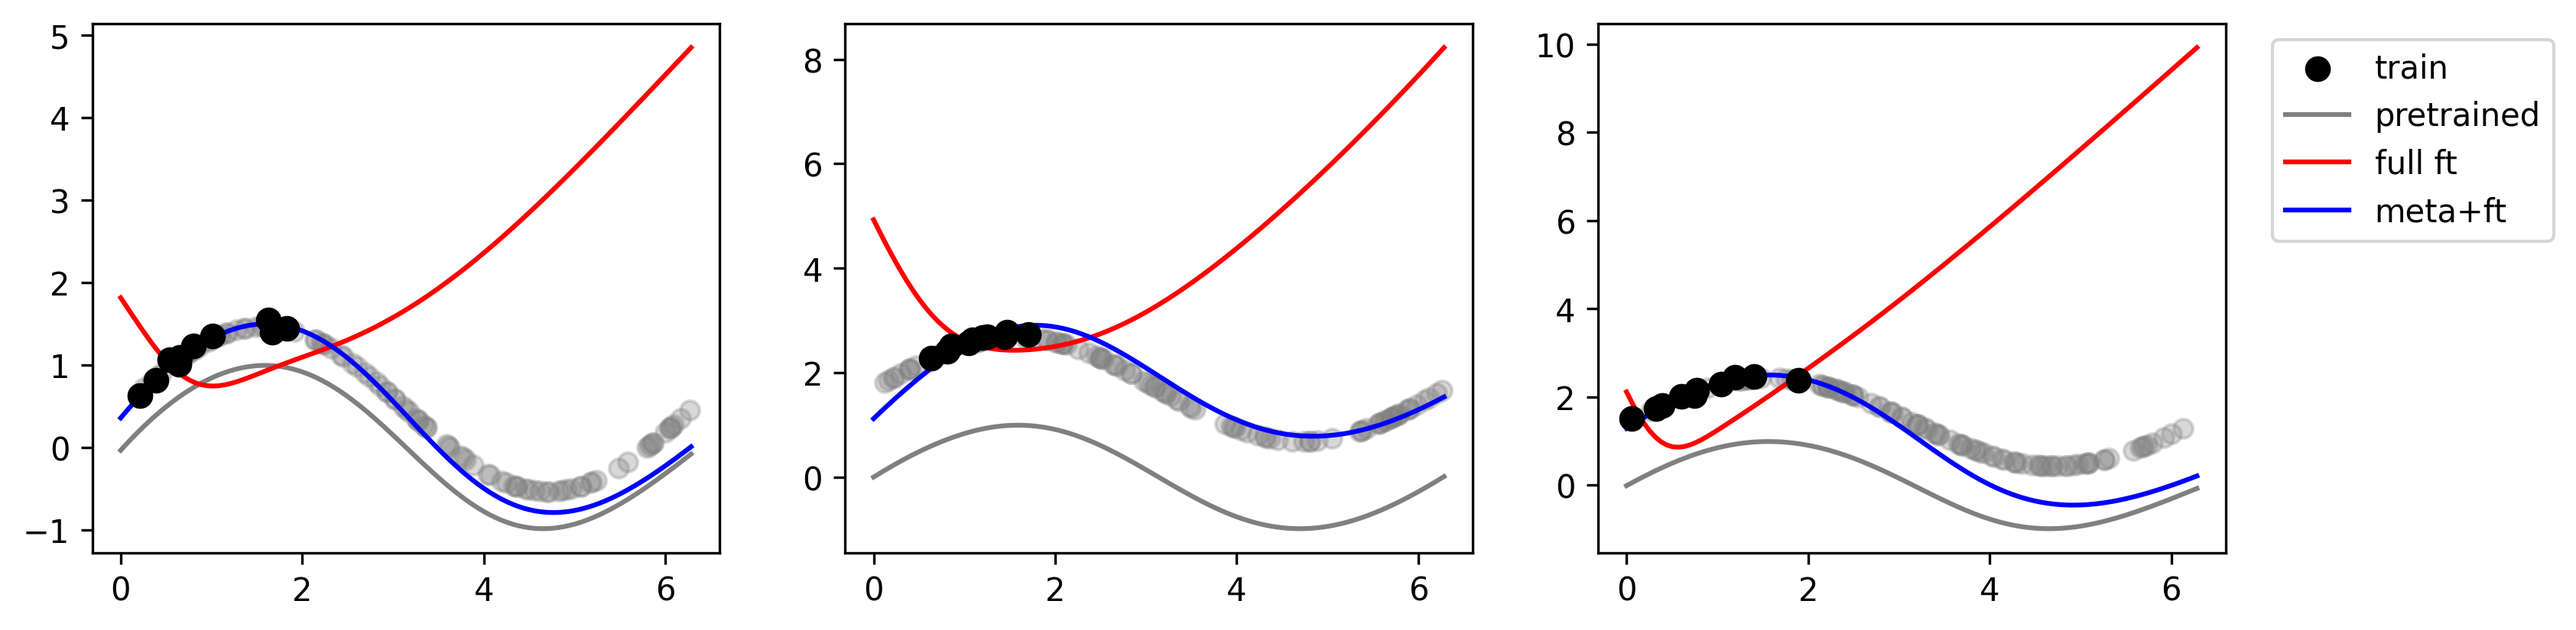
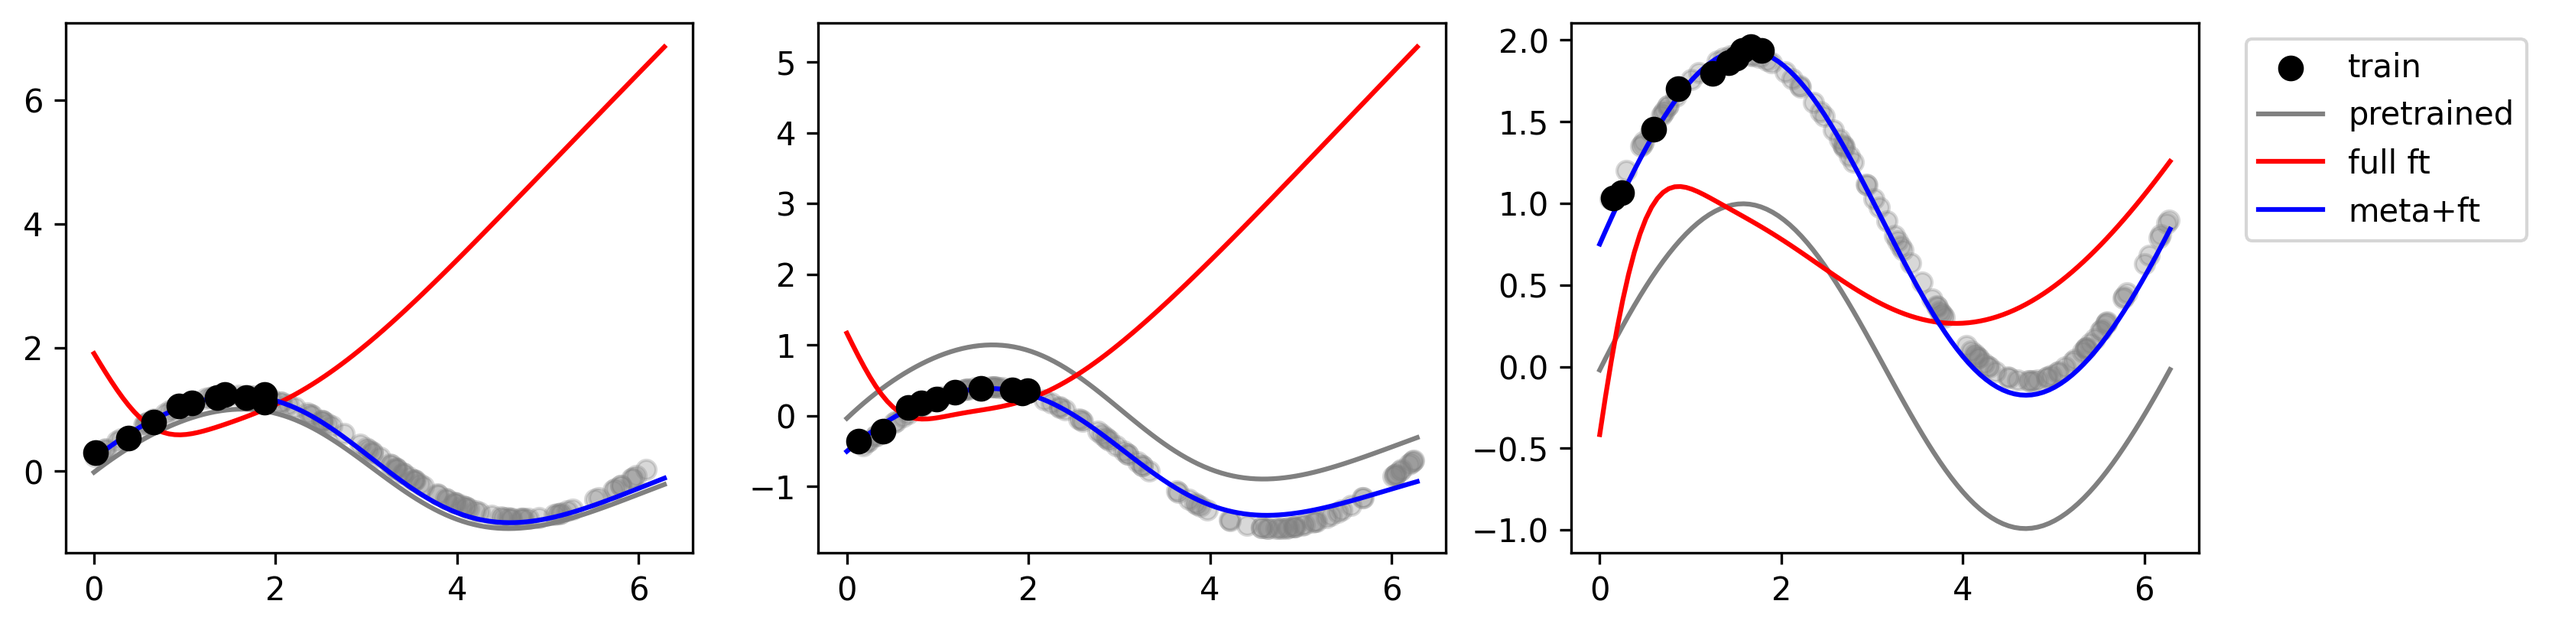
reparameterize metaopt to linear

diff --git a/main.py b/main.py
@@ -57,12 +57,16 @@ for seed in range(100):
         print(f"Saved pretrained net to {filename}!")
 
 class LayerSGD(Optimizer):
-    """meta-params: pre-sigmoid lr_multiplier per layer"""
+    """ meta-params: pre-sigmoid lr_multiplier per parameter. """
 
     def __init__(self, meta_params, params, lr=required):
         defaults = dict(lr=lr)
         super().__init__(params, defaults)
         self.meta_params = meta_params
+
+    @staticmethod
+    def get_init_meta_params():
+        return torch.zeros(4)
 
     def __setstate__(self, state: Dict[str, Any]) -> None:
         return super().__setstate__(state)
@@ -83,6 +87,41 @@ class LayerSGD(Optimizer):
                 p.data.add_(d_p, alpha=-local_lr)
         return loss
 
+class LayerSGDLinear(Optimizer):
+    """ meta-params: weights of linear layer with depth as input. """
+    def __init__(self, meta_params, net, lr=required):
+        defaults = dict(lr=lr)
+        param_groups = []
+        layers = list([p for p in net.children() if isinstance(p, nn.Linear)])  # Assumes nn.Sequential model
+        for depth, layer in enumerate(layers):
+            param_groups.append({"params": layer.weight, "depth": depth, "type": "w"})
+            param_groups.append({"params": layer.bias, "depth": depth, "type": "b"})
+        super().__init__(param_groups, defaults)
+        self.meta_params = {"w": meta_params[0:2], "b": meta_params[2:4]}
+
+    @staticmethod
+    def get_init_meta_params():
+        return torch.zeros(4)
+
+    def __setstate__(self, state: Dict[str, Any]) -> None:
+        return super().__setstate__(state)
+
+    def step(self, closure=None):
+        loss = None
+        if closure is not None:
+            loss = closure()
+
+        for group in self.param_groups:
+            p = group["params"][0]
+            if p.grad is None:
+                continue
+
+            depth = group["depth"]
+            meta_params = self.meta_params[group["type"]]
+            lr_multiplier = torch.sigmoid(meta_params[0] * depth + meta_params[1])
+            p.data.add_(p.grad.data, alpha=-group["lr"] * lr_multiplier)
+        return loss
+
 
 def get_pretrained_net(train):
     """Return a randomly sampled pretrained net."""
@@ -100,11 +139,14 @@ def get_pretrained_net(train):
     return net
 
 
-def fine_tune(net, meta_params, ft_data, inner_steps=10, inner_lr=1e-1):
+def fine_tune(optimizer_name, net, meta_params, ft_data, inner_steps=10, inner_lr=1e-1):
     """Fine-tune net on ft_data, and return net and test loss."""
     net = copy.deepcopy(net)
     train_x, train_y, test_x, test_y = ft_data
-    inner_opt = LayerSGD(meta_params, net.parameters(), lr=inner_lr)
+    if optimizer_name == "LayerSGD":
+        inner_opt = LayerSGD(meta_params, net.parameters(), lr=inner_lr)
+    elif optimizer_name == "LayerSGDLinear":
+        inner_opt = LayerSGDLinear(meta_params, net, lr=inner_lr)
     loss_fn = nn.MSELoss()
     test_losses = []
     for _ in range(inner_steps):
@@ -151,12 +193,12 @@ def sample_ft_data(task_distribution, train_N=10):
 
 def sanity_check(task_distribution):
     """Sanity check with full vs surgical fine-tuning on only last layer."""
-    meta_params = torch.ones(4).float() * -100
+    meta_params = torch.ones(4).float() * 100
     losses = []
     for _ in range(100):
         net = get_pretrained_net(train=False)
         ft_data = sample_ft_data(task_distribution)
-        _, loss = fine_tune(net, meta_params, ft_data, inner_steps=10, inner_lr=0.1)
+        _, loss = fine_tune("LayerSGD", net, meta_params, ft_data, inner_steps=10, inner_lr=0.1)
         losses.append(loss)
     losses = np.array(losses)
     print(f"Default: {losses.mean():.4f} +- {losses.std():.4f}")
@@ -166,14 +208,17 @@ def sanity_check(task_distribution):
     for _ in range(100):
         net = get_pretrained_net(train=False)
         ft_data = sample_ft_data(task_distribution)
-        _, loss = fine_tune(net, meta_params, ft_data, inner_steps=10, inner_lr=0.1)
+        _, loss = fine_tune("LayerSGD", net, meta_params, ft_data, inner_steps=10, inner_lr=0.1)
         losses.append(loss)
     losses = np.array(losses)
     print(f"Last bias only: {losses.mean():.4f} +- {losses.std():.4f}")
 
 
 def metalearn_opt(args):
-    meta_params = torch.zeros(4)
+    if args.optimizer_name == "LayerSGD":
+        meta_params = LayerSGD.get_init_meta_params()
+    elif args.optimizer_name == "LayerSGDLinear":
+        meta_params = LayerSGDLinear.get_init_meta_params()
     meta_optimizer = torch.optim.SGD([meta_params], lr=args.meta_lr)
 
     for meta_step in range(args.meta_steps + 1):
@@ -183,7 +228,7 @@ def metalearn_opt(args):
             for _ in range(args.val_meta_batch_size):
                 net = get_pretrained_net(train=False)
                 ft_data = sample_ft_data(args.task_distribution, train_N=args.train_N)
-                _, current_loss = fine_tune(net, meta_params, ft_data)
+                _, current_loss = fine_tune(args.optimizer_name, net, meta_params, ft_data)
                 metrics["loss"].append(current_loss)
             current_loss = np.array(metrics["loss"])
             print(
@@ -196,8 +241,8 @@ def metalearn_opt(args):
             epsilon = torch.randn(size=meta_params.shape)  # Antithetic sampling
             mp_plus_epsilon = meta_params + epsilon * args.noise_std
             mp_minus_epsilon = meta_params - epsilon * args.noise_std
-            _, loss_plus = fine_tune(net, mp_plus_epsilon, ft_data)
-            _, loss_minus = fine_tune(net, mp_minus_epsilon, ft_data)
+            _, loss_plus = fine_tune(args.optimizer_name, net, mp_plus_epsilon, ft_data)
+            _, loss_minus = fine_tune(args.optimizer_name, net, mp_minus_epsilon, ft_data)
             grads.append((loss_plus - loss_minus) * epsilon / args.noise_std / 2)
         grads_mean = torch.stack(grads).mean(dim=0)
 
@@ -223,8 +268,8 @@ def run_expt(args):
         train_x, train_y, test_x, test_y = task_data
         full_x = torch.tensor(np.linspace(0, 2 * np.pi, 100)).reshape(-1, 1).float()
 
-        full_ft_net, _ = fine_tune(net, torch.zeros(4), task_data)
-        meta_ft_net, _ = fine_tune(net, meta_params, task_data)
+        full_ft_net, _ = fine_tune(args.optimizer_name, net, torch.zeros(4), task_data)
+        meta_ft_net, _ = fine_tune(args.optimizer_name, net, meta_params, task_data)
         initial_preds = net(full_x).detach()
         full_ft_preds = full_ft_net(full_x).detach()
         meta_ft_preds = meta_ft_net(full_x).detach()
@@ -246,12 +291,13 @@ if __name__ == "__main__":
         default="bias_shift",
         choices=["amp_shift", "bias_shift", "amp_bias_shift"],
     )
-    parser.add_argument("--meta_steps", type=int, default=100)
-    parser.add_argument("--meta_batch_size", type=int, default=20)
-    parser.add_argument("--val_freq", type=int, default=10)
-    parser.add_argument("--val_meta_batch_size", type=int, default=100)
+    parser.add_argument("--optimizer_name", type=str, default="LayerSGDLinear", choices=["LayerSGD", "LayerSGDLinear"])
+    parser.add_argument("--meta_steps", type=int, default=50)
+    parser.add_argument("--meta_batch_size", type=int, default=10)
+    parser.add_argument("--val_freq", type=int, default=5)
+    parser.add_argument("--val_meta_batch_size", type=int, default=50)
     parser.add_argument("--noise_std", type=float, default=1.0)
-    parser.add_argument("--meta_lr", type=float, default=1e-2)
+    parser.add_argument("--meta_lr", type=float, default=3e-3)
     parser.add_argument("--train_N", type=int, default=10)
     args = parser.parse_args()
 
